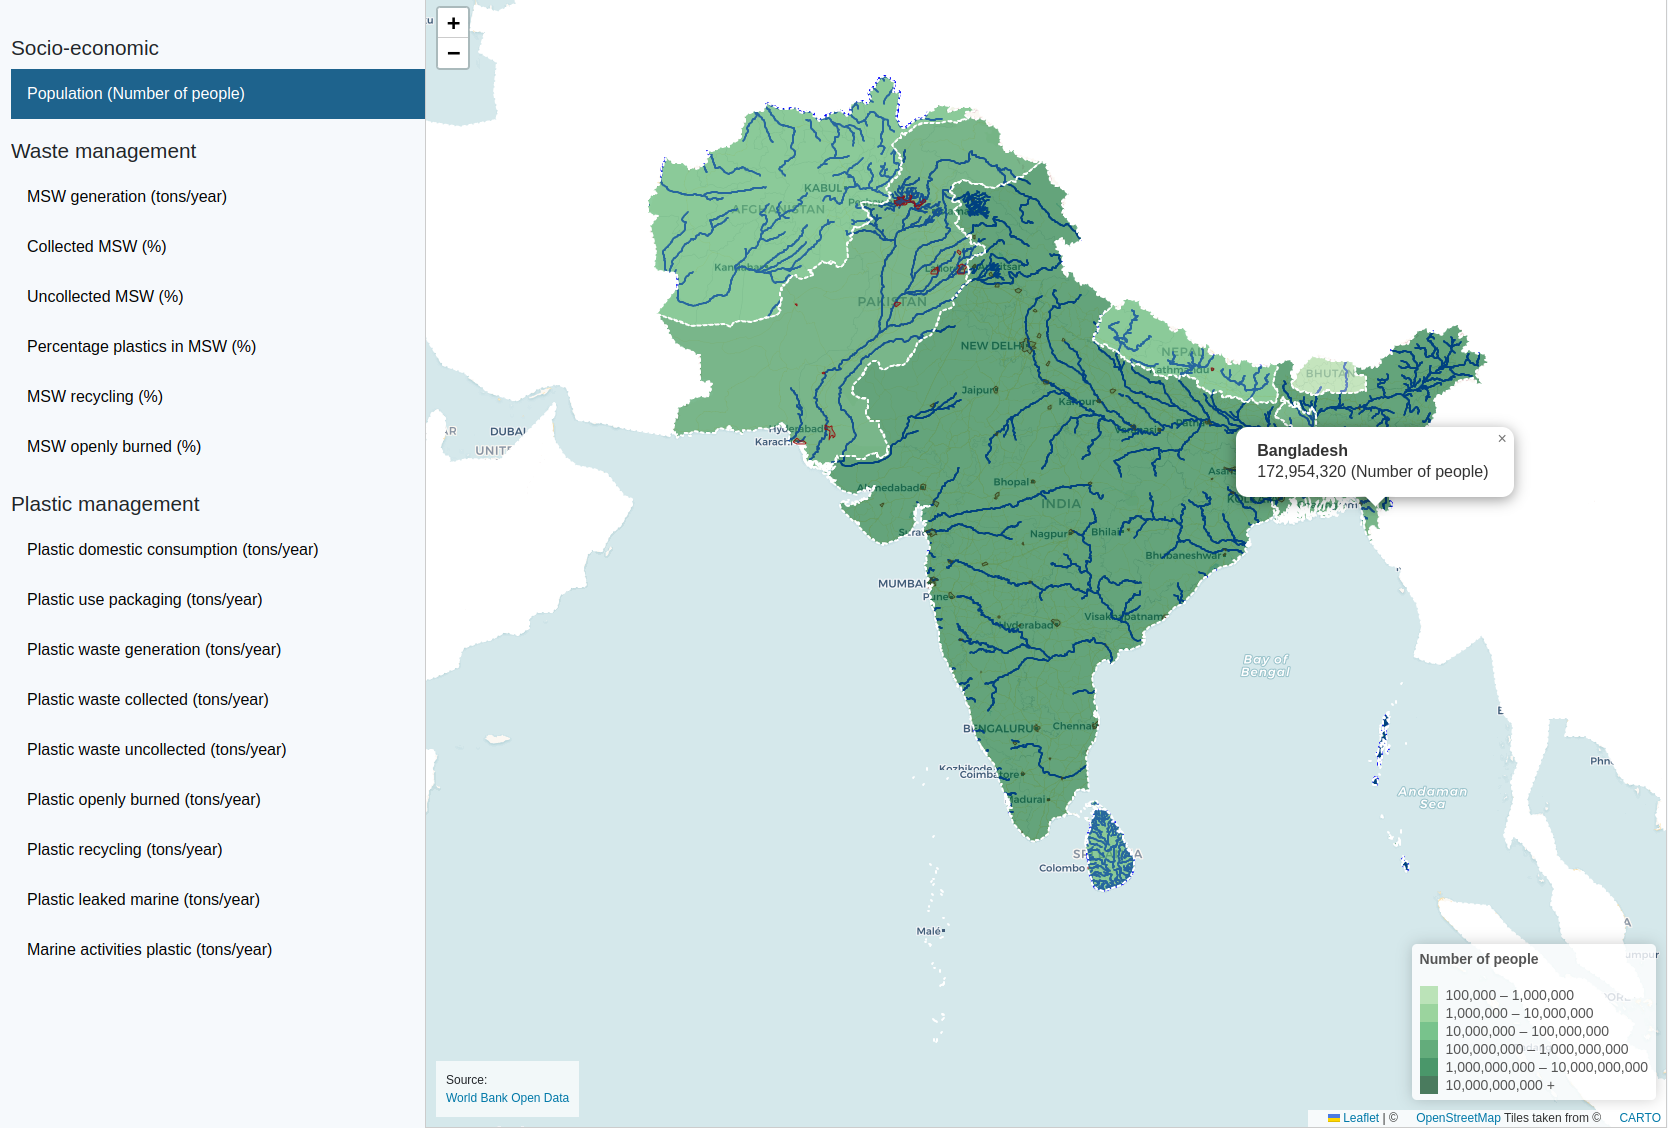
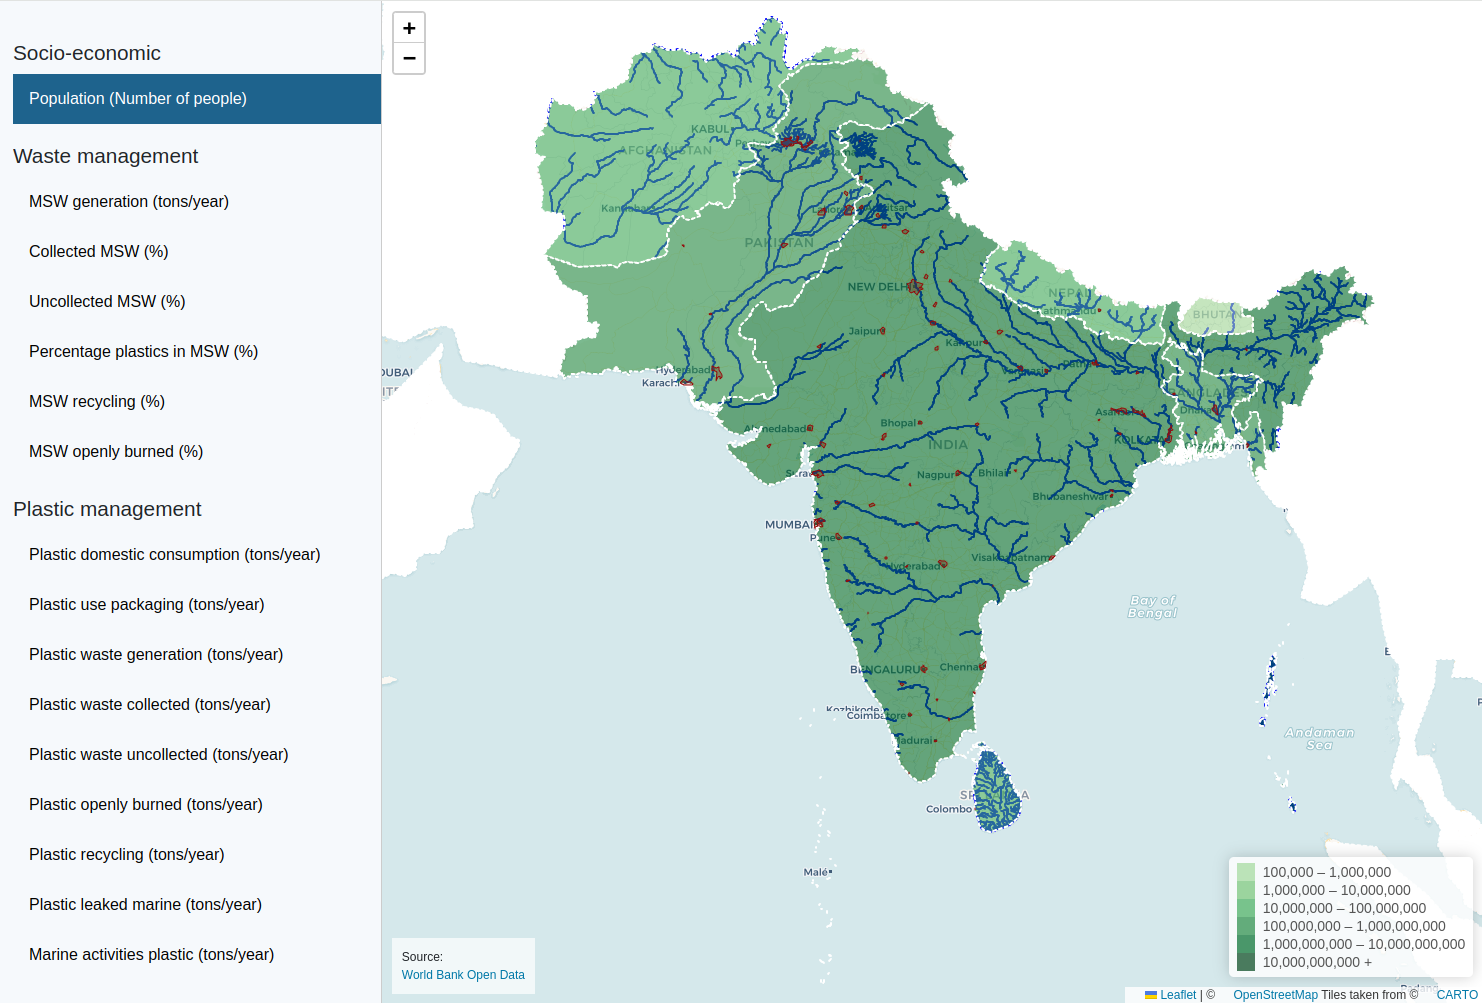
added back other countries

diff --git a/js/main.js b/js/main.js
@@ -52,7 +52,7 @@ function initializeMap(map_title, property_name, container_name) {
     }).addTo(dataMap);
 
     
-    // L.geoJSON(allCountries, { style: whiteStyle }).addTo(dataMap);
+    L.geoJSON(allCountries, { style: whiteStyle }).addTo(dataMap);
 
     // Add the rivers layer
     L.geoJSON(southAsiaRivers, {
